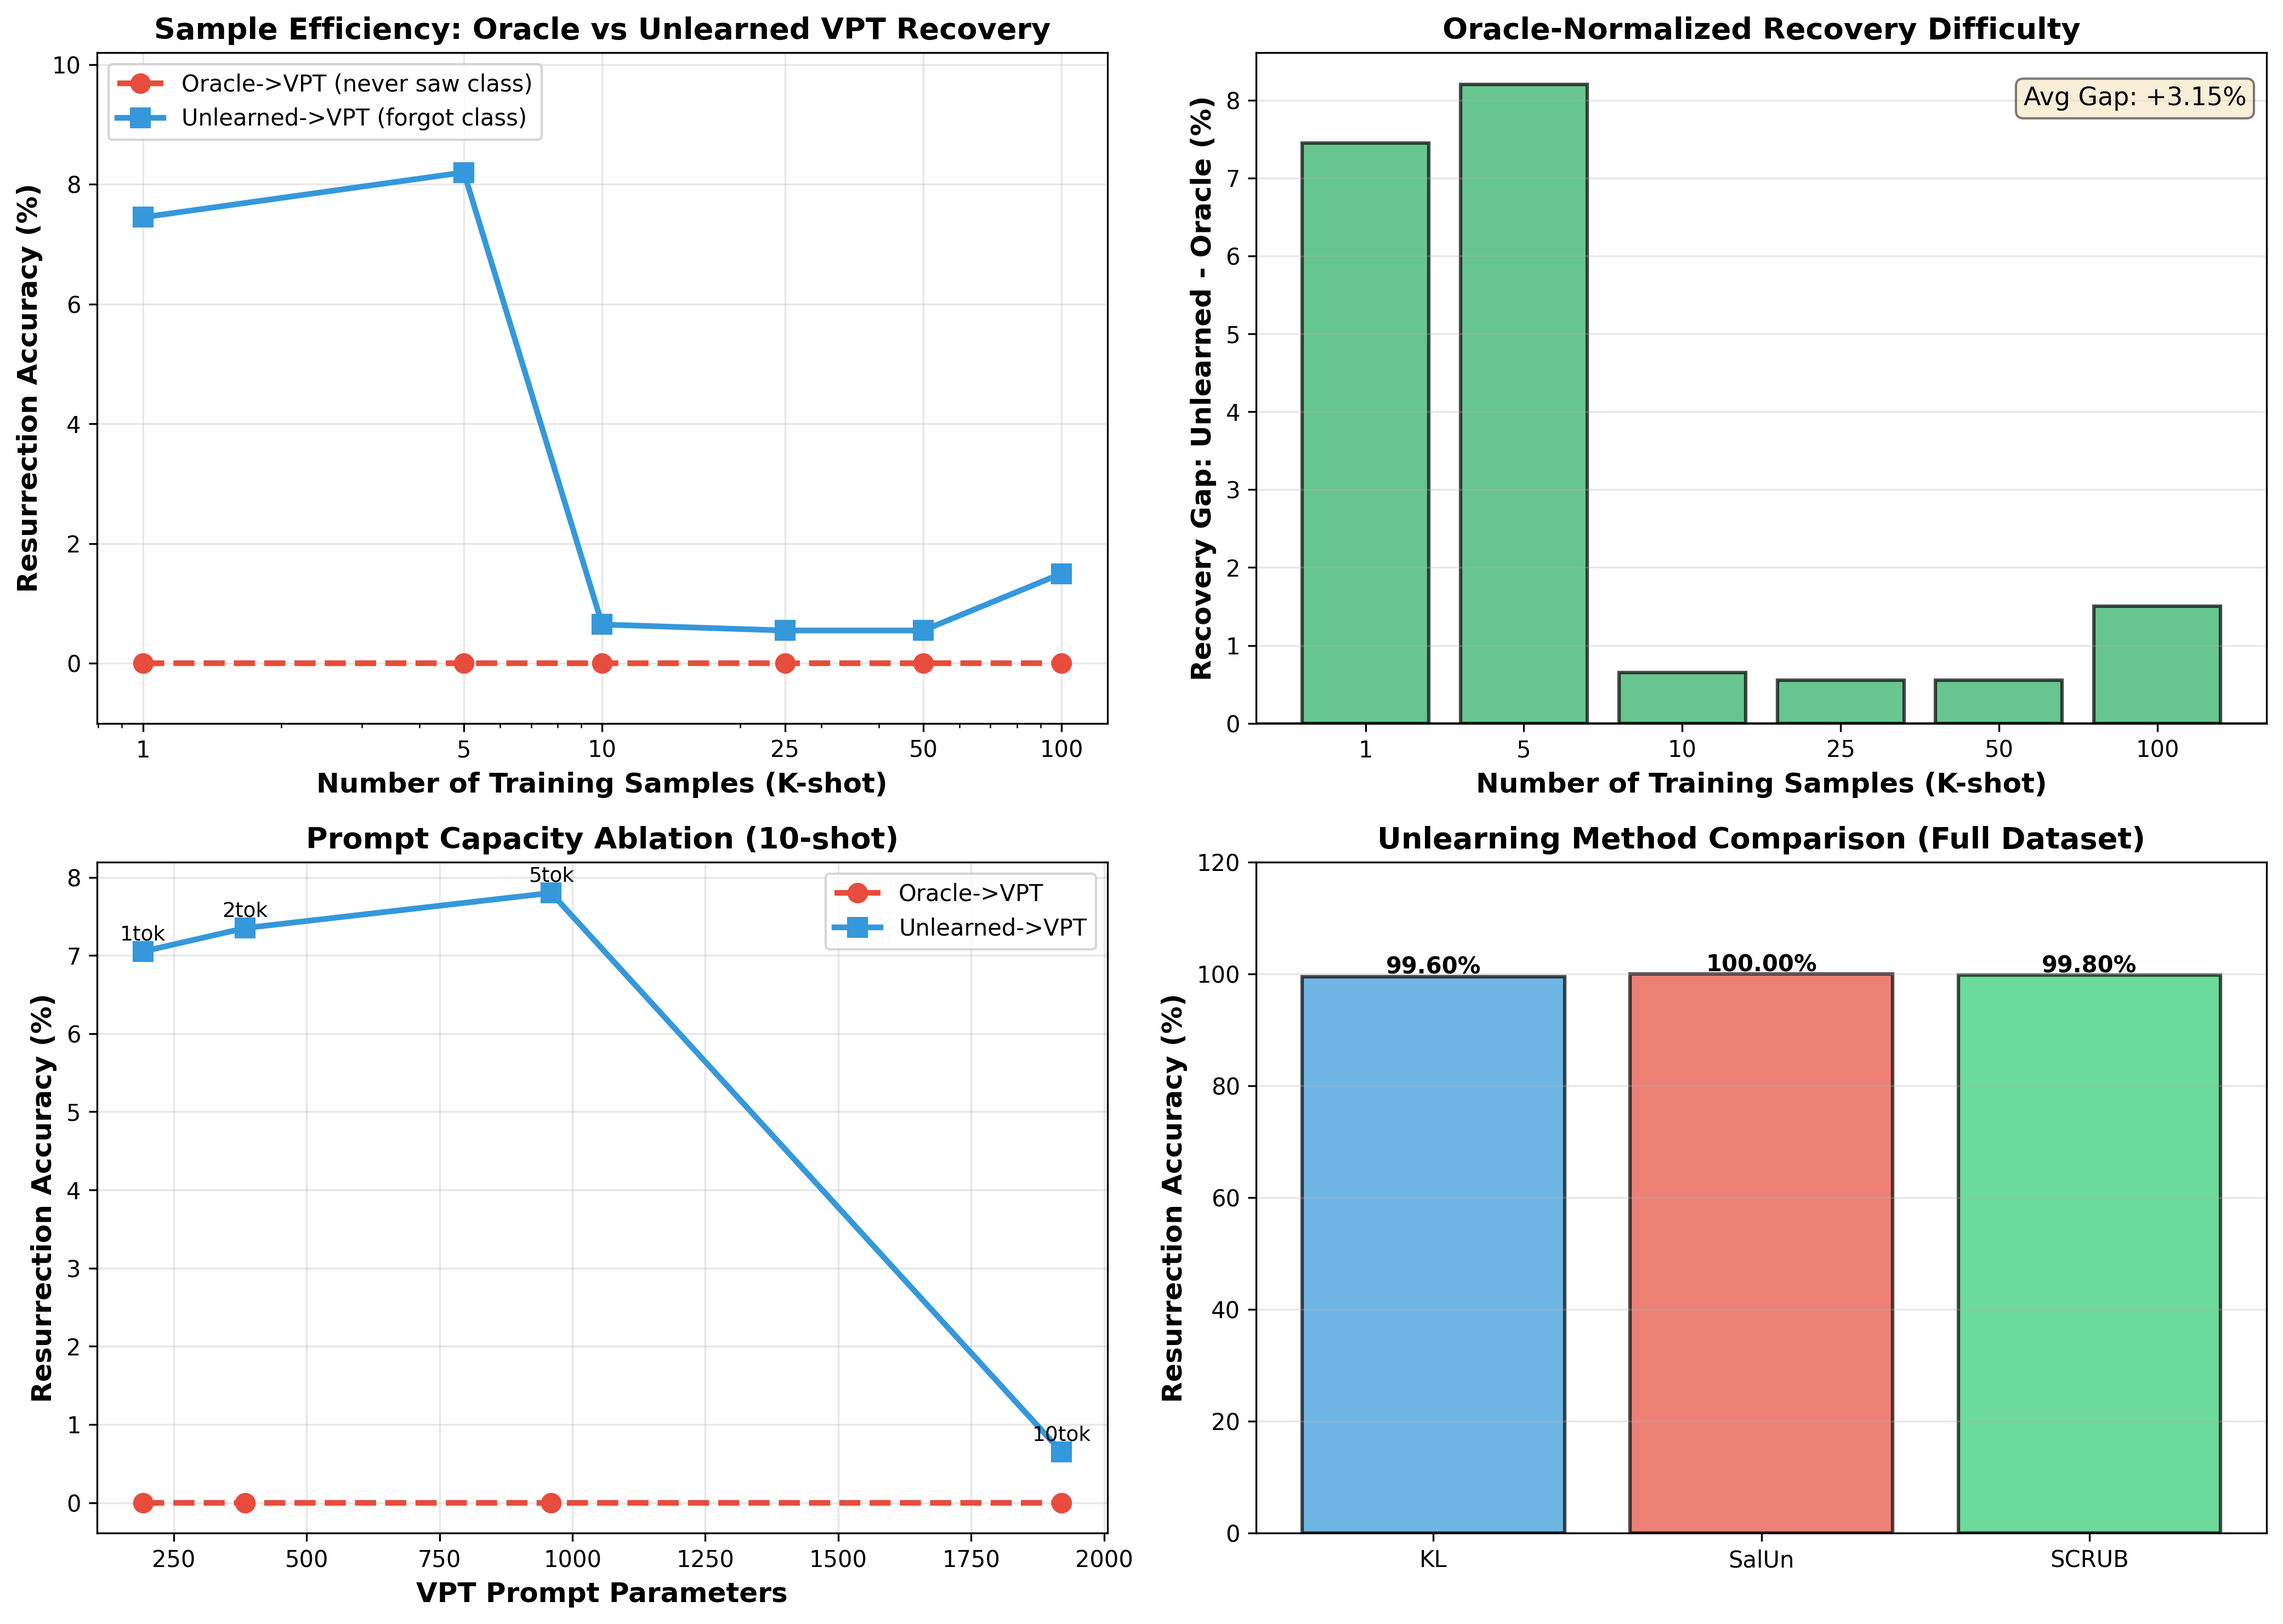
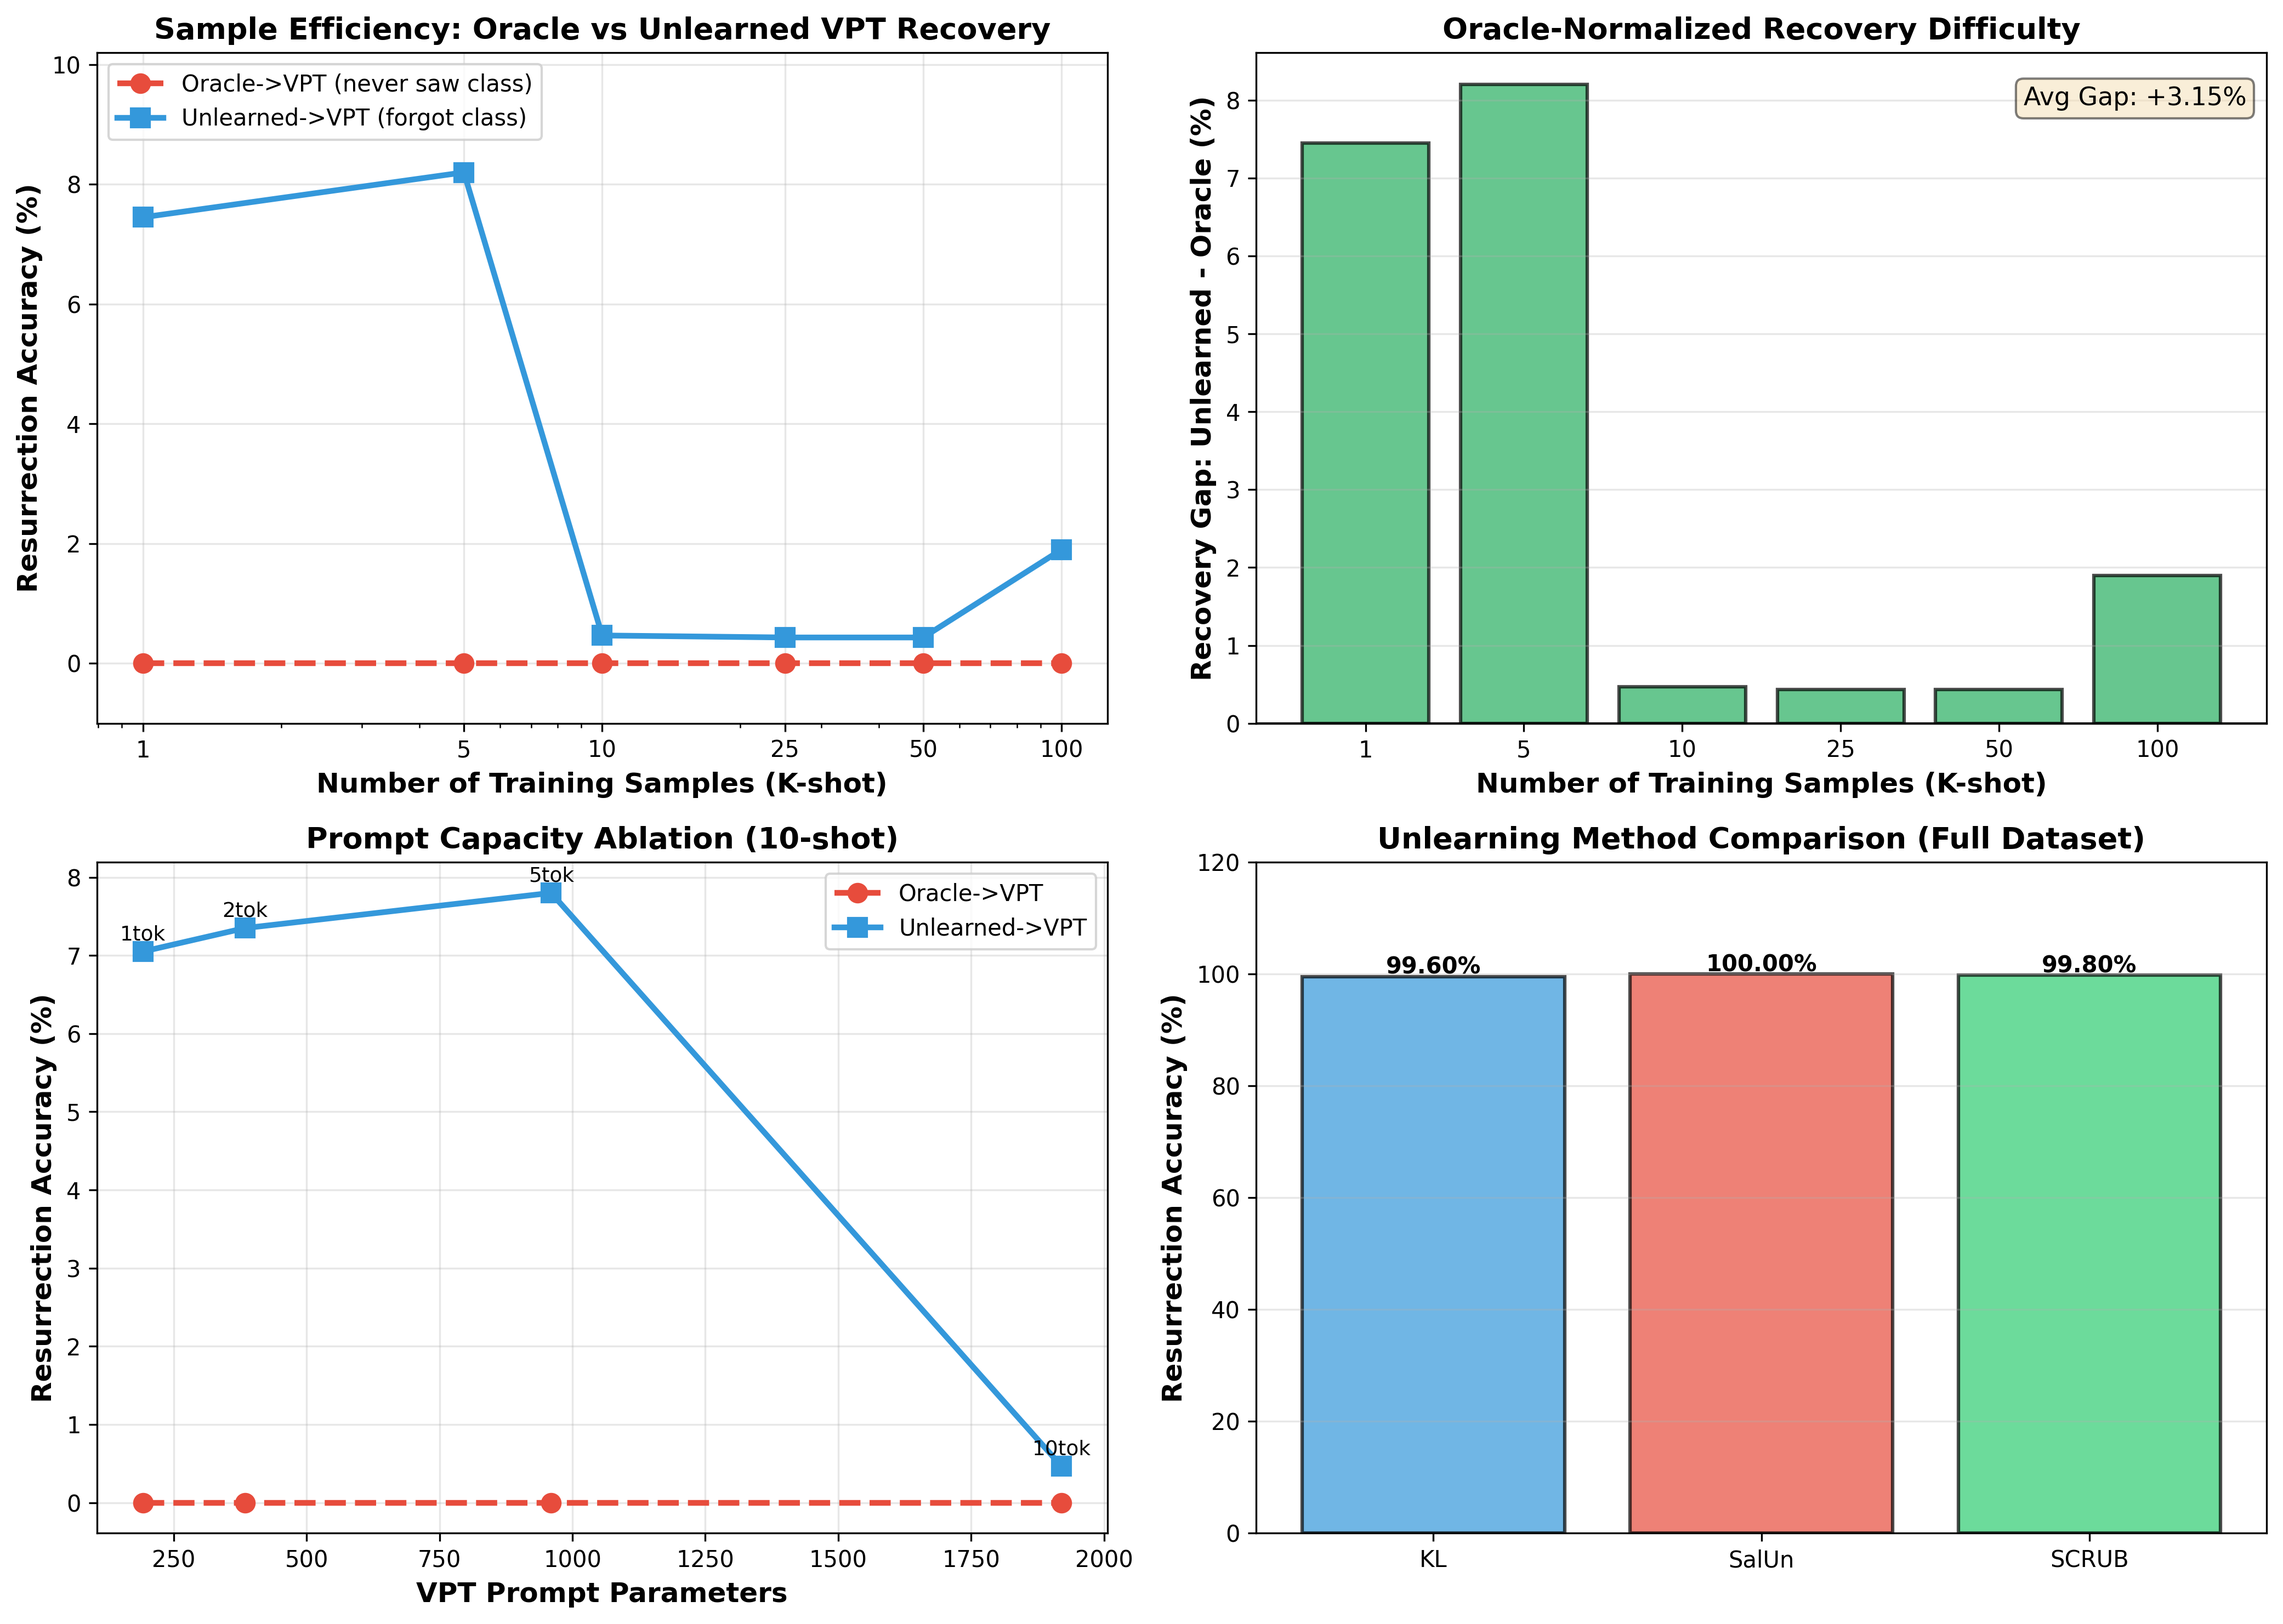
Update k-shot analysis and README (3 seeds)

diff --git a/scripts/analyze_kshot_experiments.py b/scripts/analyze_kshot_experiments.py
@@ -66,8 +66,8 @@ def analyze_kshot_sample_efficiency(results_dir, seeds):
     print("K-SHOT SAMPLE EFFICIENCY ANALYSIS")
     print("="*80)
 
-    # K-shot configurations to analyze
-    kshots = [1, 5, 10, 25, 50, 100]
+    # K-shot configurations to analyze (default prompt length runs)
+    kshots = [10, 25, 50, 100]
 
     # Collect results
     oracle_results = {}

diff --git a/README.md b/README.md
@@ -19,8 +19,8 @@ ForgetGate is a small, focused audit: we train a model, unlearn one class with L
 Two attacker data regimes are considered:
 
 - **Full-data** (attacker has the full forget-class training set): VPT reaches ~100% recovery on both the unlearned model and the oracle baseline -> the attack is effectively relearning.
-- **K-shot, default prompt length (10 tokens)**: recovery stays low at k=10-100 (KL approx 0.55-1.50%; oracle 0%), while low-shot controls (k=1/5 with prompt length 5) show larger gaps. Average gap across k=1/5/10/25/50/100 is +3.15pp (seeds 42/123).
-- **Controls (prompt length 5)**: low-shot + label controls expose residual access. Seeds 42/123: k=1: 6.95%, k=5: 7.55%, shuffled-label (k=10): 5.85%, random-label (k=10): 6.00% (oracle stays 0%). Seed 42 prompt-length ablation: 1/2/5 tokens yields 14.0/14.6/15.5% (oracle 0%). Class-wise 10-shot gaps are mostly small (0.5-1.7%), with class 9 higher at 9.75%.
+- **K-shot, default prompt length (10 tokens)**: recovery stays low at k=10-100 (KL 0.43-1.90%; oracle 0.00%). Average gap across k=1/5/10/25/50/100 is +3.15pp (seeds 42/123/456); k=1/5 use prompt length 5 controls.
+- **Controls (prompt length 5)**: low-shot + label controls expose residual access. Seeds 42/123/456: k=1: 4.27%, k=5: 4.53%, shuffled-label (k=10): 3.90%, random-label (k=10): 4.03% (oracle stays 0.00%). Prompt-length ablation (seeds 42/123, k=10): KL 1/2/5 tokens = 7.05/7.35/7.80% (oracle 0.00%). Class-wise 10-shot gaps are mostly small (0.70-1.13%), with class 9 higher at 6.77%.
 
 **Takeaway:** "0% forget accuracy" alone doesn't say much about security. Oracle-normalized evaluation helps separate *relearning capacity* from *residual knowledge access*, and the gap is sensitive to prompt length and low-shot/label controls.
 
@@ -101,7 +101,7 @@ python scripts/3_train_vpt_resurrector.py --config configs/experiment_suites.yam
 Note: you can also run `python scripts/run_paper_resume.py` to skip completed steps and continue from existing checkpoints/logs.
 
 # 6) Aggregate results across seeds
-python scripts/analyze_kshot_experiments.py --seeds 42 123
+python scripts/analyze_kshot_experiments.py --seeds 42 123 456
 ```
 
 Note: `scripts/1_train_base.py` uses a train/val split from the training set. The test set is reserved for final evaluation via `scripts/4_adv_evaluate.py`.
@@ -189,39 +189,38 @@ ForgetGate/
 
 *Seeds: 42, 123. Metrics from eval_paper_baselines_vit_cifar10_forget0 (clean test set).*
 
-### K-shot recovery (oracle-normalized)
+### K-shot recovery (oracle-normalized, default prompt length)
 
 | K-shot | Oracle Baseline | Unlearned (KL) | Residual Recov. |
 |--------|----------------|----------------|-----------------|
-| 1 | 0.00 +/- 0.00% | 7.45 +/- 10.39% | +7.45pp |
-| 5 | 0.00 +/- 0.00% | 8.20 +/- 11.17% | +8.20pp |
-| 10 | 0.00 +/- 0.00% | 0.65 +/- 0.78% | +0.65pp |
-| 25 | 0.00 +/- 0.00% | 0.55 +/- 0.49% | +0.55pp |
-| 50 | 0.00 +/- 0.00% | 0.55 +/- 0.21% | +0.55pp |
-| 100 | 0.00 +/- 0.00% | 1.50 +/- 0.42% | +1.50pp |
-| **Avg** | **0.00%** | **3.15 +/- 4.09%** | **+3.15pp** |
+| 10 | 0.00 +/- 0.00% | 0.47 +/- 0.64% | +0.47pp |
+| 25 | 0.00 +/- 0.00% | 0.43 +/- 0.40% | +0.43pp |
+| 50 | 0.00 +/- 0.00% | 0.43 +/- 0.25% | +0.43pp |
+| 100 | 0.00 +/- 0.00% | 1.90 +/- 0.75% | +1.90pp |
 
-*Seeds: 42, 123. Recovery@k measured on held-out train split (forget_val) using final logged epoch per run.*
+*Seeds: 42, 123, 456. Recovery@k measured on held-out train split (forget_val) using final logged epoch per run.*
+
+Average Oracle->VPT gap across k=1/5/10/25/50/100 (k=1/5 use prompt length 5 controls) is +3.15pp (seeds 42/123/456).
 
 ### Class-wise oracle gap (10-shot, default prompt length)
 
 | Forget Class | Oracle Baseline | Unlearned (KL) | Residual Recov. |
 |-------------|----------------|----------------|-----------------|
-| 1 | 0.00% | 1.00% | +1.00pp |
-| 2 | 0.00% | 0.50% | +0.50pp |
-| 5 | 0.00% | 1.70% | +1.70pp |
-| 9 | 0.00% | 9.75% | +9.75pp |
+| 1 | 0.00% | 0.73% | +0.73pp |
+| 2 | 0.00% | 0.70% | +0.70pp |
+| 5 | 0.00% | 1.13% | +1.13pp |
+| 9 | 0.00% | 6.77% | +6.77pp |
 
-*Seeds: 42, 123. Recovery@k measured on held-out train split (forget_val) using final logged epoch per run.*
+*Seeds: 42, 123, 456. Recovery@k measured on held-out train split (forget_val) using final logged epoch per run.*
 
-### Prompt-length + control runs (seed 42)
+### Prompt-length + control runs
 
-**Prompt-length ablation (10-shot):**
-- Prompt length 1/2/5: KL = 14.0/14.6/15.5%, Oracle = 0.0%
-- Prompt length 10 (default): KL = 1.2%, Oracle = 0.0%
+**Prompt-length ablation (10-shot, seeds 42/123):**
+- Prompt length 1/2/5: KL = 7.05/7.35/7.80%, Oracle = 0.00%
+- Prompt length 10 (default): KL = 0.47%, Oracle = 0.00%
 
 **Low-shot + label controls (prompt length 5):**
-- Seeds 42/123 mean: k=1: 6.95%, k=5: 7.55%, shuffled-label (k=10): 5.85%, random-label (k=10): 6.00% (oracle 0.0%)
+- Seeds 42/123/456 mean: k=1: 4.27%, k=5: 4.53%, shuffled-label (k=10): 3.90%, random-label (k=10): 4.03% (oracle 0.00%)
 
 ### Full-data recovery (context)
 
@@ -233,11 +232,12 @@ Full-data VPT runs reach near-complete recovery in results/logs/vpt_resurrect_*_
 
 ## Results Provenance
 
-- Seeds: 42, 123 for tables reported below.
+- Seeds: 42, 123, 456 for tables reported below (unless noted).
 - K-shot recovery uses a held-out train split (forget_val) and reports the final logged epoch.
 - Clean baselines come from test-set eval: `eval_paper_baselines_vit_cifar10_forget0`.
 - Reported standard deviations use sample std across seeds (ddof=1).
-- Avg row in the k-shot table is computed by averaging per-seed Recovery@k across k=1,5,10,25,50,100, then taking mean and sample std across seeds. Note: k=1/5 values use prompt length 5 controls; k=10+ use default prompt length 10.
+- Low-shot controls (k=1/5) use prompt length 5; k=10+ uses default prompt length 10.
+- Prompt-length ablation (1/2/5 tokens) aggregates seeds 42/123.
 - Full-data recovery values are from VPT training logs; test-set VPT/PGD numbers require `eval_full_vit_cifar10_forget0`.
 
 ## Artifacts
@@ -272,14 +272,14 @@ Attacker capabilities assumed:
 
 ## Next Steps (Recommended)
 
-1) **Random-label control**: run `--label-mode random` to further rule out relearning.
+1) **Random-label control**: run `--label-mode random` to further rule out relearning (if missing for new seeds).
 2) **Class-wise + prompt-length**: repeat prompt-length ablation for forget classes 1/2/5/9.
-3) **AutoAttack across seeds**: run eval_autoattack for seed 123 (and optionally others).
+3) **AutoAttack across seeds**: run eval_autoattack for seed 123/456 to reduce variance in robustness claims.
 
 ## Follow-ups (If You Want More Rigor)
 
-- Add a third seed (e.g., 456) for k-shot and class-wise tables.
-- Run AutoAttack for seed 123 to reduce variance in robustness claims.
+- Add additional seeds beyond 456 for tighter confidence intervals.
+- Run AutoAttack for seed 123/456 to reduce variance in robustness claims.
 - Report k-shot recovery on a fixed, deterministic split for even tighter comparisons.
 
 ---

diff --git a/results/analysis/kshot_summary.md b/results/analysis/kshot_summary.md
@@ -1,0 +1,26 @@
+# K-shot Summary
+
+Seeds: 42, 123, 456
+
+## Default prompt length (10 tokens)
+
+| K-shot | Oracle | KL | Missing (Oracle/KL) |
+|---|---|---|---|
+| 10 | 0.00% +/- 0.00% | 0.47% +/- 0.64% | []/[] |
+| 25 | 0.00% +/- 0.00% | 0.43% +/- 0.40% | []/[] |
+| 50 | 0.00% +/- 0.00% | 0.43% +/- 0.25% | []/[] |
+| 100 | 0.00% +/- 0.00% | 1.90% +/- 0.75% | []/[] |
+
+## Low-shot controls (prompt length 5)
+
+| K-shot | Oracle | KL | Missing (Oracle/KL) |
+|---|---|---|---|
+| 1 | 0.00% +/- 0.00% | 4.27% +/- 7.04% | []/[] |
+| 5 | 0.00% +/- 0.00% | 4.53% +/- 7.68% | []/[] |
+
+## Label controls (prompt length 5, k=10)
+
+| Control | Oracle | KL | Missing (Oracle/KL) |
+|---|---|---|---|
+| shufflelabels | 0.00% +/- 0.00% | 3.90% +/- 6.41% | []/[] |
+| randomlabels | 0.00% +/- 0.00% | 4.03% +/- 6.64% | []/[] |
